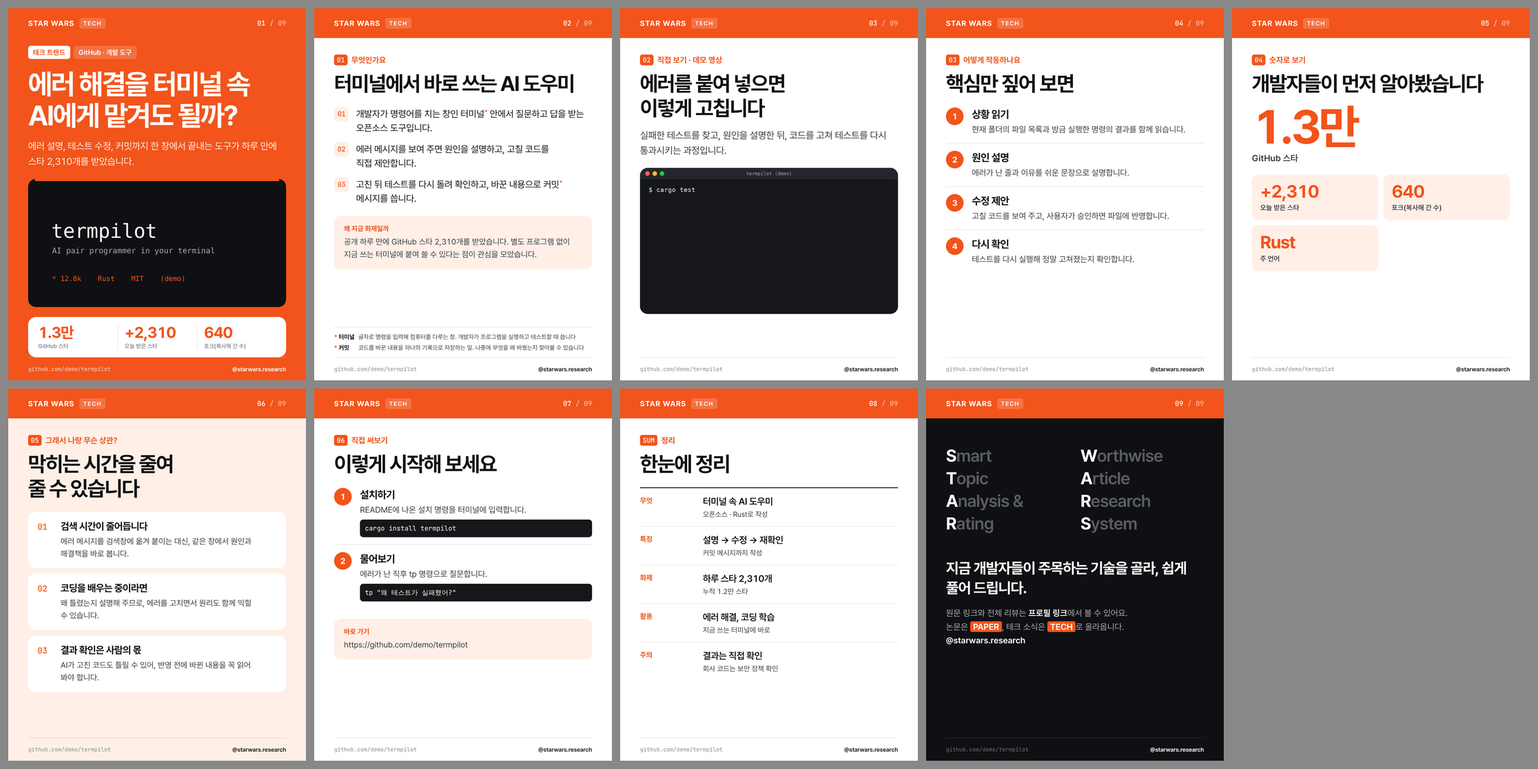
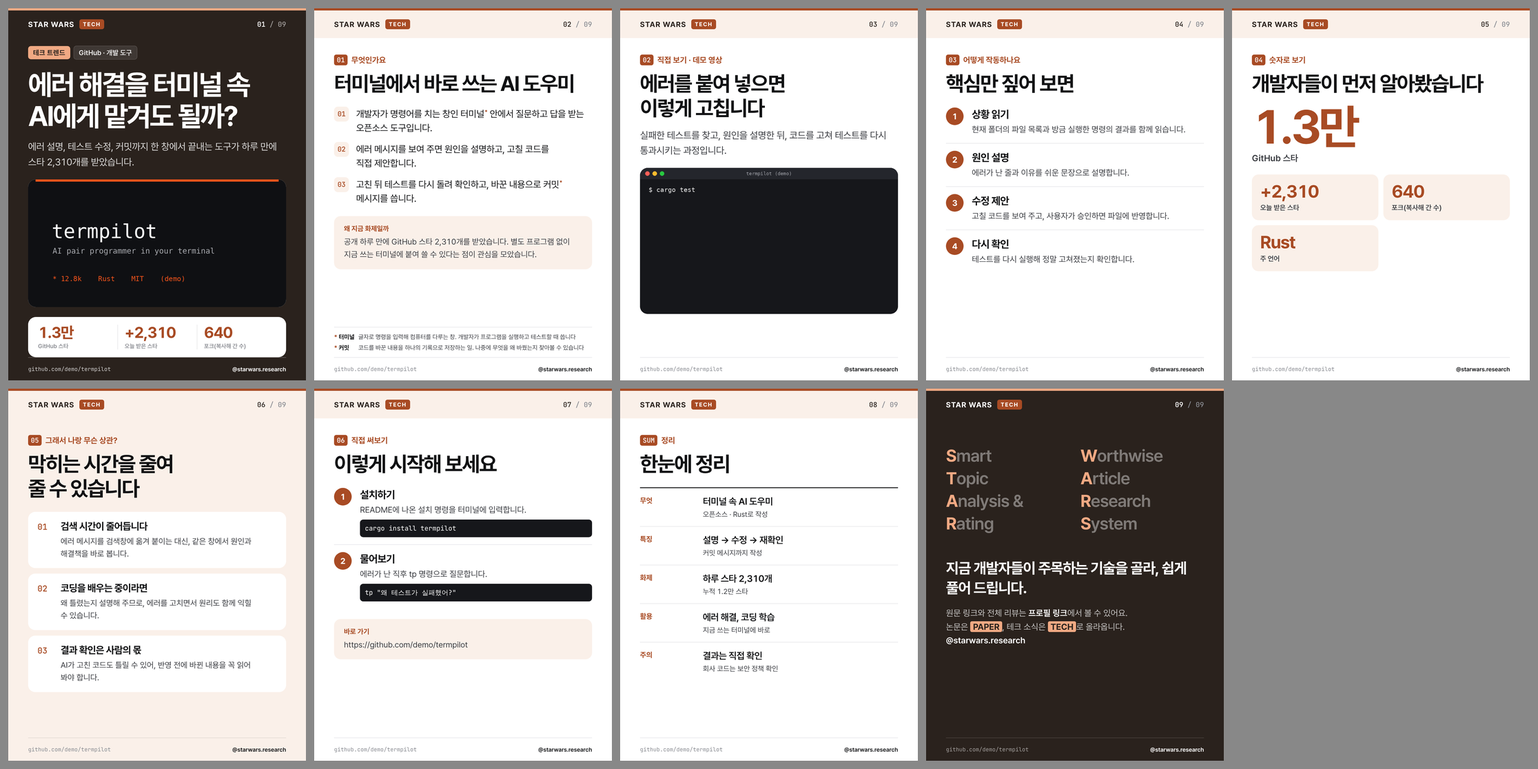
Calmer accessible palette (60-30-10, WCAG AA) and GitHub-style source labels
Claude-Session: https://claude.ai/code/session_012bj7GXVabYbePdzsSxXok8

diff --git a/paperagent/static/style.css b/paperagent/static/style.css
@@ -1,5 +1,7 @@
-/* STAR WARS dashboard. One typeface (Pretendard). Each category has its own colour block:
-   PAPER = blue, TECH = orange - the same colours as the card news. */
+/* STAR WARS dashboard. One typeface (Pretendard). Colours follow 60-30-10: neutral
+   surfaces and ink for most of the page, a light tint of the category colour for
+   panels, the category colour itself only for small accents. PAPER = indigo,
+   TECH = terracotta (same as the card news); every text pair meets WCAG AA. */
 @font-face { font-family: "Pretendard"; font-weight: 400; font-display: swap; src: url("fonts/Pretendard-Regular.woff2") format("woff2"); }
 @font-face { font-family: "Pretendard"; font-weight: 500; font-display: swap; src: url("fonts/Pretendard-Medium.woff2") format("woff2"); }
 @font-face { font-family: "Pretendard"; font-weight: 600; font-display: swap; src: url("fonts/Pretendard-SemiBold.woff2") format("woff2"); }
@@ -10,7 +12,7 @@
   --bg: #fafafa; --surface: #ffffff; --well: #f4f4f2;
   --ink: #171717; --body: #4d4d4d; --mute: #8f8f8f;
   --line: #ebebeb; --line-2: #dcdcdc;
-  --paper: #2346e0; --paper-soft: #ebf0ff; --tech: #f2541b; --tech-soft: #ffefe7;
+  --paper: #3a5a9f; --paper-soft: #eef2f9; --paper-deep: #1e2a47; --tech: #a84b24; --tech-soft: #faf0e9; --tech-deep: #2a221d;
   --accent: var(--paper); --accent-soft: var(--paper-soft);
   --ok: #1a7f4b; --warn: #a15c07; --danger: #c4321b;
   --shadow: 0 1px 1px rgba(0,0,0,.02), 0 2px 4px rgba(0,0,0,.04);
@@ -22,7 +24,7 @@
     --bg: #0b0b0b; --surface: #141414; --well: #1c1c1c;
     --ink: #ededed; --body: #b4b4b4; --mute: #7a7a7a;
     --line: #242424; --line-2: #303030;
-    --paper: #8aa2ff; --paper-soft: #18203f; --tech: #ff8a5c; --tech-soft: #3a1d12;
+    --paper: #8aa2e6; --paper-soft: #1a2032; --paper-deep: #c9d5f2; --tech: #e8936b; --tech-soft: #2b201b; --tech-deep: #f3d2c2;
     --accent: var(--paper); --accent-soft: var(--paper-soft);
     --ok: #4cc38a; --warn: #e2a14a; --danger: #ff7a5c;
     --shadow: none;
@@ -53,7 +55,7 @@ code { background: var(--well); padding: 1px 6px; border-radius: 4px; }
 .site-head .wrap { display: flex; align-items: center; gap: 28px; height: 60px; }
 .logo { display: inline-flex; align-items: center; gap: 9px; font-weight: 700; font-size: 16px; letter-spacing: 0.06em; white-space: nowrap; }
 .logo .mark { display: inline-grid; grid-template-columns: 9px 9px; gap: 2px; }
-.logo .mark i { height: 18px; border-radius: 3px; background: var(--paper); }
+.logo .mark i { height: 18px; border-radius: 3px; background: var(--paper-deep); }
 .logo .mark i + i { background: var(--tech); }
 .logo:hover { color: var(--ink); }
 .nav { display: flex; gap: 4px; overflow-x: auto; scrollbar-width: none; }
@@ -572,42 +574,46 @@ body.console-open { overflow: hidden; }
 /* ---------- colour blocks ---------- */
 .sdot { display: inline-block; width: 9px; height: 9px; border-radius: 3px; flex: none; background: var(--mute); vertical-align: 1px; }
 .sdot.s-paper { background: var(--paper); } .sdot.s-tech { background: var(--tech); }
-.sdot.s-github { background: #24292f; } .sdot.s-hn { background: #ff6600; } .sdot.s-geeknews { background: #2b6cb0; } .sdot.s-hf { background: #ffb000; }
+.sdot.s-github { background: #59636e; } .sdot.s-hn { background: #ff6600; } .sdot.s-geeknews { background: #3b6fb6; } .sdot.s-hf { background: #ffd21e; }
 .nav a.on .sdot { box-shadow: 0 0 0 2px var(--ink); }
-/* where a tech post came from */
-.sbadge { display: inline-block; font-size: 11.5px; font-weight: 700; line-height: 1.5; padding: 1px 8px; border-radius: 6px; color: #fff; background: #555; white-space: nowrap; }
-.sbadge.s-github { background: #24292f; } .sbadge.s-hn { background: #ff6600; } .sbadge.s-geeknews { background: #2b6cb0; }
-.sbadge.s-hf { background: #ffcc33; color: #3b2a00; }
-@media (prefers-color-scheme: dark) { .sbadge.s-github, .sdot.s-github { background: #57606a; } }
-
-/* page hero: a block in the category colour */
-.hero { margin-top: 32px; margin-bottom: 28px; padding: 32px 36px; border-radius: 22px; color: #fff; background: var(--paper);
-        display: grid; grid-template-columns: minmax(0, 1fr) auto; gap: 24px 40px; align-items: end; }
-.hero.tech { background: var(--tech); }
-.hero-tag { display: inline-block; font-size: 12.5px; font-weight: 700; letter-spacing: .14em; padding: 4px 10px; border-radius: 7px; background: #fff; color: var(--paper); }
-.hero.tech .hero-tag { color: var(--tech); }
-.hero h1 { margin-top: 14px; font-size: clamp(30px, 4vw, 42px); font-weight: 700; letter-spacing: -0.045em; line-height: 1.15; }
-.hero p { margin-top: 10px; max-width: 620px; font-size: 15.5px; color: rgba(255,255,255,.88); }
-.hero a.inline-link { color: #fff; text-decoration: underline; }
+/* where a tech post came from: a neutral pill with the source's own small mark,
+   styled like GitHub's labels (subtle canvas, hairline border, default text) */
+.sbadge { display: inline-flex; align-items: center; gap: 5px; height: 22px; padding: 0 8px 0 6px; border-radius: 999px; vertical-align: 1px;
+          font-size: 12px; font-weight: 600; line-height: 1; white-space: nowrap; color: #1f2328; background: #f6f8fa; border: 1px solid #d0d7de; }
+.sbadge svg, .sbadge .ico { width: 14px; height: 14px; flex: none; }
+.sbadge svg { fill: currentColor; }
+.sbadge .ico { display: inline-flex; align-items: center; justify-content: center; border-radius: 3px; font: 700 9.5px/1 "Pretendard", sans-serif; color: #fff; }
+.sbadge .ico.hn { background: #ff6600; }
+.sbadge .ico.geeknews { background: #3b6fb6; }
+.sbadge .ico.hf { background: #ffd21e; color: #3b2a00; border-radius: 50%; }
+@media (prefers-color-scheme: dark) { .sbadge { color: #e6edf3; background: #161b22; border-color: #30363d; } }
+/* page hero: a tinted panel with an accent line - the category colour stays an accent */
+.hero { margin-top: 32px; margin-bottom: 28px; padding: 30px 34px; border-radius: 18px; color: var(--ink); background: var(--paper-soft);
+        border-top: 5px solid var(--paper); display: grid; grid-template-columns: minmax(0, 1fr) auto; gap: 24px 40px; align-items: end; }
+.hero.tech { background: var(--tech-soft); border-top-color: var(--tech); }
+.hero-tag { display: inline-block; font-size: 12px; font-weight: 700; letter-spacing: .14em; padding: 4px 10px; border-radius: 6px; background: var(--paper); color: #fff; }
+.hero.tech .hero-tag { background: var(--tech); }
+.hero h1 { margin-top: 14px; font-size: clamp(28px, 3.6vw, 38px); font-weight: 700; letter-spacing: -0.04em; line-height: 1.18; color: var(--paper-deep); }
+.hero.tech h1 { color: var(--tech-deep); }
+.hero p { margin-top: 10px; max-width: 620px; font-size: 15.5px; color: var(--body); }
+.hero a.inline-link { color: var(--paper); text-decoration: underline; }
 .hero-stats { display: flex; align-items: flex-end; gap: 28px; flex-wrap: wrap; }
-.hero-stats > div b { display: block; font-size: 30px; font-weight: 700; letter-spacing: -0.04em; line-height: 1.1; }
-.hero-stats > div span { display: block; margin-top: 2px; font-size: 12.5px; color: rgba(255,255,255,.8); white-space: nowrap; }
+.hero-stats > div b { display: block; font-size: 28px; font-weight: 700; letter-spacing: -0.04em; line-height: 1.1; color: var(--paper); }
+.hero.tech .hero-stats > div b { color: var(--tech); }
+.hero-stats > div span { display: block; margin-top: 2px; font-size: 12.5px; color: var(--body); white-space: nowrap; }
 .hero-stats form { margin: 0; }
-.btn.invert { background: #fff; color: var(--paper); border-color: #fff; }
-.hero.tech .btn.invert { color: var(--tech); }
-.btn.invert:hover { color: var(--paper); opacity: .92; }
-@media (prefers-color-scheme: dark) {
-  .hero { background: #1a2a7a; } .hero.tech { background: #8a2c0a; }
-  .hero-tag, .btn.invert { color: #1a2a7a; } .hero.tech .hero-tag, .hero.tech .btn.invert { color: #8a2c0a; }
-}
+.btn.invert { background: var(--paper); color: #fff; border-color: var(--paper); }
+.hero.tech .btn.invert { background: var(--tech); border-color: var(--tech); }
+.btn.invert:hover { color: #fff; opacity: .9; }
+@media (prefers-color-scheme: dark) { .btn.invert, .hero-tag { color: #111; } }
 @media (max-width: 820px) {
-  .hero { grid-template-columns: minmax(0, 1fr); padding: 24px 20px; margin-top: 20px; border-radius: 18px; }
+  .hero { grid-template-columns: minmax(0, 1fr); padding: 22px 20px; margin-top: 20px; border-radius: 16px; }
   .hero-stats { gap: 18px 24px; }
-  .hero-stats > div b { font-size: 24px; }
+  .hero-stats > div b { font-size: 23px; }
 }
 /* other pages: a small colour block before the title */
-.page-head h1::before { content: ""; display: inline-block; width: 12px; height: 26px; margin-right: 12px; border-radius: 4px;
-                        background: linear-gradient(var(--paper) 50%, var(--tech) 50%); vertical-align: -3px; }
+.page-head h1::before { content: ""; display: inline-block; width: 6px; height: 24px; margin-right: 12px; border-radius: 3px;
+                        background: linear-gradient(var(--paper) 50%, var(--tech) 50%); vertical-align: -2px; }
 .list-title { flex: 1; padding-bottom: 10px; font-size: 16px; font-weight: 700; }
 .list-title span { margin-left: 4px; font-size: 13px; color: var(--mute); font-weight: 500; }
 .tabs a { display: inline-flex; align-items: center; gap: 6px; }

diff --git a/paperagent/templates/cards/cards.html b/paperagent/templates/cards/cards.html
@@ -10,12 +10,15 @@
 @font-face { font-family: "Mono"; font-weight: 400; src: url("{{ fonts }}/jetbrains-mono-latin-400-normal.woff2") format("woff2"); }
 @font-face { font-family: "Mono"; font-weight: 500; src: url("{{ fonts }}/jetbrains-mono-latin-500-normal.woff2") format("woff2"); }
 
-/* One frame for every post. The category (paper = blue, tech = orange) is the
-   colour of the band on top of each slide and of the whole cover. */
+/* One frame for every post. 60-30-10: white and ink carry the text, a light
+   tint of the category colour (paper = indigo, tech = terracotta) marks the
+   header and panels, and the category colour itself is kept for small accents.
+   Every text colour meets WCAG AA contrast on its background. */
 :root {
   --c: {{ theme.color }};
   --deep: {{ theme.deep }};
   --soft: {{ theme.soft }};
+  --tint: {{ theme.tint }};
   --ink: #111214;
   --body: #3b3d42;
   --mute: #8b8d93;
@@ -35,12 +38,14 @@ p, li, span, b { text-wrap: pretty; }
 .slide { --k: 1; width: 1080px; height: 1350px; position: relative; overflow: hidden; background: #fff; display: flex; flex-direction: column; }
 
 /* the colour block on top of every content slide */
-.band { flex: none; height: 108px; padding: 0 72px; background: var(--c); color: #fff; display: flex; align-items: center; justify-content: space-between; }
+/* the header: a light tint of the category colour with a thin accent line on top */
+.band { flex: none; height: 108px; padding: 0 72px; background: var(--soft); color: var(--ink); display: flex; align-items: center;
+        justify-content: space-between; border-top: 8px solid var(--c); }
 .brand { display: flex; align-items: center; gap: 18px; }
-.brand b { font-size: 27px; font-weight: 700; letter-spacing: .06em; }
-.brand span { font-size: 21px; font-weight: 600; letter-spacing: .14em; padding: 7px 14px; border-radius: 8px; background: rgba(255,255,255,.18); }
-.pg { font-family: "Mono", monospace; font-size: 25px; font-weight: 500; }
-.pg i { font-style: normal; opacity: .6; }
+.brand b { font-size: 27px; font-weight: 700; letter-spacing: .06em; color: var(--deep); }
+.brand span { font-size: 20px; font-weight: 700; letter-spacing: .14em; padding: 6px 13px; border-radius: 8px; background: var(--c); color: #fff; }
+.pg { font-family: "Mono", monospace; font-size: 25px; font-weight: 500; color: var(--deep); }
+.pg i { font-style: normal; color: var(--mute); }
 
 .main { position: relative; flex: 1; min-height: 0; display: flex; flex-direction: column; overflow: hidden; padding: calc(60px * var(--k)) 72px 0; }
 .bottom { flex: none; height: 84px; margin: 0 72px; border-top: 2px solid var(--line); display: flex; align-items: center; justify-content: space-between;
@@ -83,14 +88,17 @@ h2 { flex: none; margin-top: calc(22px * var(--k)); font-size: calc(76px * var(-
 .dots li::before { content: ""; position: absolute; left: .15em; top: calc(.5lh - 5px); width: 10px; height: 10px; border-radius: 3px; background: var(--c); }
 
 /* ---------- cover: the whole slide in the category colour ---------- */
-.cover { background: var(--c); color: #fff; }
-.cover .band { background: transparent; }
+.cover { background: var(--deep); color: #fff; }
+.cover .band { background: transparent; border-top-color: var(--tint); }
+.cover .brand b, .cover .pg { color: #fff; }
+.cover .pg i { color: rgba(255,255,255,.55); }
 .cover .main { padding-top: calc(28px * var(--k)); }
 .chips { flex: none; display: flex; flex-wrap: wrap; gap: 12px; align-items: center; }
-.chip { font-size: calc(25px * var(--k)); font-weight: 700; padding: 9px 18px; border-radius: 10px; background: #fff; color: var(--c); letter-spacing: .02em; }
-.chip.ghost { background: rgba(255,255,255,.16); color: #fff; font-weight: 600; letter-spacing: 0; }
+.chip { font-size: calc(25px * var(--k)); font-weight: 700; padding: 9px 18px; border-radius: 10px; background: var(--tint); color: var(--deep); letter-spacing: .02em; }
+.chip.ghost { background: rgba(255,255,255,.1); color: rgba(255,255,255,.9); font-weight: 600; letter-spacing: 0; border: 1.5px solid rgba(255,255,255,.22); }
+.cover h1 em { font-style: normal; color: var(--tint); }
 .cover h1 { flex: none; margin-top: calc(34px * var(--k)); font-size: calc(102px * var(--k)); line-height: 1.12; font-weight: 700; letter-spacing: -0.05em; }
-.cover .lead { color: rgba(255,255,255,.88); font-size: calc(35px * var(--k)); margin-top: calc(26px * var(--k)); }
+.cover .lead { color: rgba(255,255,255,.82); font-size: calc(35px * var(--k)); margin-top: calc(26px * var(--k)); }
 .cover .figure { border: 0; }
 .stat { flex: none; margin-top: auto; padding-top: calc(36px * var(--k)); }
 .stat-card { background: #fff; color: var(--ink); border-radius: 28px; padding: calc(28px * var(--k)) 36px; display: flex; align-items: center; gap: 44px; }
@@ -117,7 +125,7 @@ h2 { flex: none; margin-top: calc(22px * var(--k)); font-size: calc(76px * var(-
 .bar b { text-align: right; font-weight: 700; }
 .bar .track { height: 14px; background: var(--well); border-radius: 7px; overflow: hidden; }
 .bar .fill { height: 100%; background: var(--c); border-radius: 7px; }
-.bar.alt .fill { background: var(--ink); }
+.bar.alt .fill { background: var(--tint); }
 
 /* ---------- steps ---------- */
 .steps { flex: none; list-style: none; margin-top: calc(42px * var(--k)); display: flex; flex-direction: column; }
@@ -148,7 +156,7 @@ h2 { flex: none; margin-top: calc(22px * var(--k)); font-size: calc(76px * var(-
 .hbar .top span { color: var(--body); font-weight: 500; }
 .hbar .top b { font-weight: 700; }
 .hbar .track { height: calc(34px * var(--k)); border-radius: 10px; background: var(--well); overflow: hidden; }
-.hbar .fill { height: 100%; border-radius: 10px; background: #c9cbd1; }
+.hbar .fill { height: 100%; border-radius: 10px; background: #d5d7dc; }
 .hbar.on .top span, .hbar.on .top b { color: var(--c); font-weight: 700; }
 .hbar.on .fill { background: var(--c); }
 .rtable { flex: none; margin-top: calc(36px * var(--k)); }
@@ -192,9 +200,9 @@ h2 { flex: none; margin-top: calc(22px * var(--k)); font-size: calc(76px * var(-
 .pc li { font-size: calc(29px * var(--k)); line-height: 1.5; }
 .pc .good .dots li::before { background: var(--good); }
 .pc .bad .dots li::before { background: var(--bad); }
-.who { flex: none; margin-top: calc(22px * var(--k)); padding: calc(22px * var(--k)) 28px; border-radius: 20px; background: var(--ink); color: #fff;
+.who { flex: none; margin-top: calc(22px * var(--k)); padding: calc(22px * var(--k)) 28px; border-radius: 20px; background: var(--deep); color: #fff;
        display: grid; grid-template-columns: max-content minmax(0, 1fr); column-gap: 18px; font-size: calc(28px * var(--k)); line-height: 1.5; }
-.who b { color: #fff; background: var(--c); padding: 0 10px; border-radius: 6px; align-self: start; }
+.who b { color: var(--deep); background: var(--tint); padding: 0 10px; border-radius: 6px; align-self: start; }
 
 /* explained words: a raised * in the text, the meaning at the bottom of the slide */
 .star { font-size: .6em; vertical-align: .6em; line-height: 0; margin-left: 1px; color: var(--c); font-weight: 700; }
@@ -204,15 +212,18 @@ h2 { flex: none; margin-top: calc(22px * var(--k)); font-size: calc(76px * var(-
 .foot b::before { content: "* "; color: var(--c); }
 
 /* ---------- outro ---------- */
-.outro { background: #0f1013; color: #fff; }
+.outro { background: var(--deep); color: #fff; }
+.outro .band { background: transparent; border-top-color: var(--tint); }
+.outro .brand b, .outro .pg { color: #fff; }
+.outro .acro b { color: var(--tint); }
 .acro { margin: 96px 72px 0; display: grid; grid-template-columns: 1fr 1fr; gap: 4px 40px; }
-.acro div { font-size: 62px; font-weight: 600; letter-spacing: -0.03em; line-height: 1.26; color: #5a5c63; white-space: nowrap; }
+.acro div { font-size: 62px; font-weight: 600; letter-spacing: -0.03em; line-height: 1.26; color: rgba(255,255,255,.4); white-space: nowrap; }
 .acro b { color: #fff; font-weight: 700; }
 .outro .claim { margin: 88px 72px 0; font-size: 54px; line-height: 1.32; font-weight: 700; letter-spacing: -0.035em; }
-.outro .cta { margin: 30px 72px 0; font-size: 31px; line-height: 1.6; color: #a7a9ae; }
+.outro .cta { margin: 30px 72px 0; font-size: 31px; line-height: 1.6; color: rgba(255,255,255,.72); }
 .outro .cta b { color: #fff; font-weight: 600; }
-.outro .cta em { font-style: normal; color: #fff; background: var(--c); padding: 1px 10px; border-radius: 6px; font-weight: 600; }
-.outro .bottom { border-top-color: #26272c; color: #6d6f75; }
+.outro .cta em { font-style: normal; color: var(--deep); background: var(--tint); padding: 1px 10px; border-radius: 6px; font-weight: 700; }
+.outro .bottom { border-top-color: rgba(255,255,255,.14); color: rgba(255,255,255,.55); }
 .outro .bottom b { color: #fff; }
 
 /* while measuring, figures are out and the notes sit right under the text */

diff --git a/paperagent/templates/tech.html b/paperagent/templates/tech.html
@@ -1,5 +1,5 @@
 {% extends "base.html" %}
-{% from "_macros.html" import csrf with context %}
+{% from "_macros.html" import csrf, sbadge with context %}
 {% block title %}테크 소식 · {{ site_name }}{% endblock %}
 {% block content %}
 <section class="hero tech">
@@ -54,7 +54,7 @@
         {% for t in upcoming %}
         <div class="mini tech-mini">
           {% if is_admin %}<input type="checkbox" name="item_id" value="{{ t.id }}" aria-label="{{ t.title }} 선택">{% endif %}
-          <div><span class="sbadge s-{{ t.source }}">{{ tech_source_names.get(t.source) }}</span> <a href="{{ t.url }}" target="_blank" rel="noopener">{{ t.title }}</a>
+          <div>{{ sbadge(t.source, tech_source_names.get(t.source)) }} <a href="{{ t.url }}" target="_blank" rel="noopener">{{ t.title }}</a>
             <div class="why">관심도 {{ t.interest }} · {{ t.interest_reason }}</div></div>
         </div>
         {% endfor %}
@@ -65,7 +65,7 @@
     <section class="card">
       <div class="side-h"><h3>어디서 가져오나요</h3>{% if is_admin %}<a href="{{ url_for('web.settings') }}#tech">설정</a>{% endif %}</div>
       <ul class="src-list">
-        {% for key, s in sources.items() %}<li class="{{ 'off' if key not in settings.tech_sources }}"><span class="sbadge s-{{ key }}">{{ s.short }}</span>
+        {% for key, s in sources.items() %}<li class="{{ 'off' if key not in settings.tech_sources }}">{{ sbadge(key, s.short) }}
           <a href="{{ s.url }}" target="_blank" rel="noopener">{{ s.name }}</a>{% if key not in settings.tech_sources %} <span class="small muted">(꺼짐)</span>{% endif %}</li>{% endfor %}
       </ul>
     </section>
@@ -75,7 +75,7 @@
       <form method="post" action="{{ url_for('web.tech_run') }}">{{ csrf() }}
         <div class="kw-vlist collapsed" data-kw-list>
         {% for t in skipped %}<div class="mini tech-mini"><input type="checkbox" name="item_id" value="{{ t.id }}" aria-label="{{ t.title }} 선택">
-          <div><span class="sbadge s-{{ t.source }}">{{ tech_source_names.get(t.source) }}</span> <a href="{{ t.url }}" target="_blank" rel="noopener">{{ t.title }}</a>
+          <div>{{ sbadge(t.source, tech_source_names.get(t.source)) }} <a href="{{ t.url }}" target="_blank" rel="noopener">{{ t.title }}</a>
             <div class="why">관심도 {{ t.interest }} · {{ t.interest_reason }}</div></div></div>{% endfor %}
         </div>
         <button type="button" class="kw-more" data-kw-toggle hidden>전체 보기</button>

diff --git a/paperagent/templates/settings.html b/paperagent/templates/settings.html
@@ -1,5 +1,5 @@
 {% extends "base.html" %}
-{% from "_macros.html" import csrf with context %}
+{% from "_macros.html" import csrf, sbadge with context %}
 {% block title %}설정 · {{ site_name }}{% endblock %}
 {% block content %}
 <section class="page-head"><div>
@@ -35,7 +35,7 @@
     <p class="desc">정기 실행 때 논문 다음에, 아래 출처에서 화제인 프로젝트와 소식을 모아 가장 흥미로운 것을 TECH 카드뉴스로 만듭니다.</p>
     <form method="post" action="{{ url_for('web.save_tech_settings') }}">{{ csrf() }}
       <div class="check-grid">{% for key, s in tech_source_list.items() %}
-        <label class="check"><input type="checkbox" name="src_{{ key }}" value="1" {{ 'checked' if key in settings.tech_sources }}><span class="sbadge s-{{ key }}">{{ s.short }}</span>{{ s.name }}</label>{% endfor %}</div>
+        <label class="check"><input type="checkbox" name="src_{{ key }}" value="1" {{ 'checked' if key in settings.tech_sources }}>{{ sbadge(key, s.short) }}{{ s.name }}</label>{% endfor %}</div>
       <div class="form-grid">
         <label>실행마다 만드는 수<input type="number" name="tech_per_run" min="0" max="10" value="{{ settings.tech_per_run }}"></label>
         <label>최소 관심도 (0-10)<input type="number" step="0.5" name="tech_min_interest" min="0" max="10" value="{{ settings.tech_min_interest }}"></label>

diff --git a/paperagent/templates/_macros.html b/paperagent/templates/_macros.html
@@ -35,3 +35,5 @@
   </div>
 </section>
 {% endmacro %}
+{# a tech post's source: neutral GitHub-style label with the source's own small mark #}
+{% macro sbadge(key, name) %}<span class="sbadge s-{{ key }}" title="출처: {{ name }}">{% if key == 'github' %}<svg viewBox="0 0 16 16" aria-hidden="true"><path d="M8 0c4.42 0 8 3.58 8 8a8.013 8.013 0 0 1-5.45 7.59c-.4.08-.55-.17-.55-.38 0-.27.01-1.13.01-2.2 0-.75-.25-1.23-.54-1.48 1.78-.2 3.65-.88 3.65-3.95 0-.88-.31-1.59-.82-2.15.08-.2.36-1.02-.08-2.12 0 0-.67-.22-2.2.82-.64-.18-1.32-.27-2-.27-.68 0-1.36.09-2 .27-1.53-1.03-2.2-.82-2.2-.82-.44 1.1-.16 1.92-.08 2.12-.51.56-.82 1.28-.82 2.15 0 3.06 1.86 3.75 3.64 3.95-.23.2-.44.55-.51 1.07-.46.21-1.61.55-2.33-.66-.15-.24-.6-.83-1.23-.82-.67.01-.27.38.01.53.34.19.73.9.82 1.13.16.45.68 1.31 2.69.94 0 .67.01 1.3.01 1.49 0 .21-.15.45-.55.38A7.995 7.995 0 0 1 0 8c0-4.42 3.58-8 8-8Z"/></svg>{% elif key == 'hn' %}<i class="ico hn" aria-hidden="true">Y</i>{% elif key == 'geeknews' %}<i class="ico geeknews" aria-hidden="true">G</i>{% elif key == 'hf' %}<i class="ico hf" aria-hidden="true">🤗</i>{% endif %}{{ name }}</span>{% endmacro %}

diff --git a/paperagent/templates/index.html b/paperagent/templates/index.html
@@ -1,5 +1,5 @@
 {% extends "base.html" %}
-{% from "_macros.html" import csrf, source_select with context %}
+{% from "_macros.html" import csrf, source_select, sbadge with context %}
 {% block content %}
 <section class="hero paper">
   <div class="hero-main">
@@ -71,7 +71,7 @@
     <section class="card side-tech">
       <div class="side-h"><h3><span class="sdot s-tech"></span>새 테크 소식</h3><a href="{{ url_for('web.tech_index') }}">더 보기</a></div>
       {% for t in tech_latest %}
-        <a class="mini" href="{{ url_for('web.tech_detail', item_id=t.id) }}"><span class="n"><span class="sbadge s-{{ t.source }}">{{ tech_source_names.get(t.source) }}</span></span><span>{{ (t.review or {}).title_ko or t.title }}</span></a>
+        <a class="mini" href="{{ url_for('web.tech_detail', item_id=t.id) }}"><span class="n">{{ sbadge(t.source, tech_source_names.get(t.source)) }}</span><span>{{ (t.review or {}).title_ko or t.title }}</span></a>
       {% endfor %}
     </section>
     {% endif %}

diff --git a/paperagent/templates/tech_item.html b/paperagent/templates/tech_item.html
@@ -1,5 +1,5 @@
 {% extends "base.html" %}
-{% from "_macros.html" import csrf, cards_panel with context %}
+{% from "_macros.html" import csrf, cards_panel, sbadge with context %}
 {% block title %}{{ r.title_ko or t.title }} · {{ site_name }}{% endblock %}
 {% block meta %}
 <meta property="og:title" content="{{ r.title_ko or t.title }}">
@@ -11,7 +11,7 @@
 <a class="back" href="{{ url_for('web.tech_index') }}">← 테크 소식</a>
 <header class="dhead tech">
   <div class="pmeta meta"><div>
-    <span class="mi"><span class="sbadge s-{{ t.source }}">{{ source.short or t.source }}</span></span>
+    <span class="mi">{{ sbadge(t.source, source.short or t.source) }}</span>
     {% if r.category %}<span class="mi cat">{{ r.category }}</span>{% endif %}
     {% if t.reviewed_at %}<span class="mi">{{ t.reviewed_at | kst('%Y.%m.%d') }}</span>{% endif %}
   </div></div>

diff --git a/paperagent/templates/_tech_card.html b/paperagent/templates/_tech_card.html
@@ -1,3 +1,4 @@
+{% from "_macros.html" import sbadge with context %}
 {% set r = t.review or {} %}
 {% set tiles = tech_tiles(t) %}
 <article class="prow card tech" id="t-{{ t.id }}">
@@ -7,7 +8,7 @@
   </div>
   <div>
     <div class="pmeta meta"><div>
-      <span class="mi"><span class="sbadge s-{{ t.source }}">{{ tech_source_names.get(t.source, t.source) }}</span></span>
+      <span class="mi">{{ sbadge(t.source, tech_source_names.get(t.source, t.source)) }}</span>
       {% if r.category %}<span class="mi cat">{{ r.category }}</span>{% endif %}
       {% if t.reviewed_at %}<span class="mi" title="카드뉴스를 만든 시각">{{ t.reviewed_at | kst('%m.%d %H:%M') }}</span>{% endif %}
     </div></div>

diff --git a/paperagent/cardnews.py b/paperagent/cardnews.py
@@ -31,11 +31,15 @@ log = logging.getLogger(__name__)
 PKG_DIR = Path(__file__).resolve().parent
 FONT_DIR = PKG_DIR / "static" / "fonts"
 
+# Colours follow a 60-30-10 split: neutral white/ink for most of a slide, a
+# light tint of the category colour for panels, and the category colour itself
+# only for small accents (labels, key numbers, bars). Every text/background
+# pair meets WCAG AA (4.5:1); the accents are muted, not neon.
 THEMES = {
-    "paper": {"key": "paper", "color": "#2346E0", "deep": "#1631B0", "soft": "#EBF0FF", "label": "PAPER",
+    "paper": {"key": "paper", "color": "#3A5A9F", "deep": "#1E2A47", "soft": "#EEF2F9", "tint": "#AEBFE8", "label": "PAPER",
               "name": "논문 리뷰", "kicker": "오늘의 논문",
               "claim": "읽을 가치가 있는 논문만 골라 읽고, 평가합니다."},
-    "tech": {"key": "tech", "color": "#F2541B", "deep": "#C43B0B", "soft": "#FFEFE7", "label": "TECH",
+    "tech": {"key": "tech", "color": "#A84B24", "deep": "#2A221D", "soft": "#FAF0E9", "tint": "#F0A983", "label": "TECH",
              "name": "테크 트렌드", "kicker": "오늘의 테크",
              "claim": "지금 개발자들이 주목하는 기술을 골라, 쉽게 풀어 드립니다."},
 }

diff --git a/README.md b/README.md
@@ -18,11 +18,11 @@
 [Heroku 업데이트](#5-heroku에-변경-사항-올리기) ·
 [처음 설정 (API 키·Heroku 첫 배포)](docs/SETUP.md)
 
-<img src="docs/preview-cards.png" width="640" alt="논문 카드뉴스 예시 (PAPER, 파란색)">
+<img src="docs/preview-cards.png" width="640" alt="논문 카드뉴스 예시 (PAPER, 남색)">
 
-<img src="docs/preview-tech-cards.png" width="640" alt="테크 카드뉴스 예시 (TECH, 주황색)">
+<img src="docs/preview-tech-cards.png" width="640" alt="테크 카드뉴스 예시 (TECH, 테라코타)">
 
-<sub>위 카드뉴스와 아래 화면은 데모용 가상 논문·가상 프로젝트로 만든 예시입니다. 파란색은 논문(PAPER), 주황색은 테크 소식(TECH)입니다.</sub>
+<sub>위 카드뉴스와 아래 화면은 데모용 가상 논문·가상 프로젝트로 만든 예시입니다. 남색은 논문(PAPER), 테라코타색은 테크 소식(TECH)입니다.</sub>
 
 </div>
 
@@ -39,7 +39,7 @@
 | 3 | **정독 → 평가 → 작성** | PDF 전문을 읽고 **방법론 신뢰도**와 **참신성**으로 채점한 뒤, 한국어 리뷰를 씁니다 |
 | 4 | **카드뉴스** | 인스타용 1080×1350 카드 10장: 질문형 표지 → 문제 → 핵심 아이디어(**움직이는 영상 카드**) → 작동 방식 → 실험 → 결과(큰 숫자와 막대) → **그래서 나랑 무슨 상관?** → 평가 → 정리 → 프로필 안내, 그리고 캡션 |
 | 5 | **트렌드** | 오늘 화제인 논문, 인용이 빠르게 느는 논문을 모읍니다. 공개 데이터만 쓰므로 **Claude API 없이도** 갱신됩니다 |
-| 6 | **테크 소식** | GitHub Trending, Hacker News, GeekNews, Hugging Face에서 화제인 프로젝트와 소식을 모아 흥미도를 매기고, 가장 좋은 것(기본 2개)을 쉬운 한국어 설명과 **TECH 카드뉴스**(주황색, 데모 영상 카드 포함)로 만듭니다 |
+| 6 | **테크 소식** | GitHub Trending, Hacker News, GeekNews, Hugging Face에서 화제인 프로젝트와 소식을 모아 흥미도를 매기고, 가장 좋은 것(기본 2개)을 쉬운 한국어 설명과 **TECH 카드뉴스**(테라코타색, 데모 영상 카드 포함)로 만듭니다 |
 
 결과는 누구나 볼 수 있는 대시보드에 올라가고, 출처(저널·학회·arXiv 분야)별로 나눠 볼 수 있습니다. **설정** 페이지와 키워드·저널 관리, 실행은 관리자만 쓸 수 있습니다.
 
@@ -173,8 +173,8 @@ python -m paperagent serve --host 127.0.0.1 --port 8000 --no-scheduler
 
 | 주소 | 확인할 것 |
 |---|---|
-| http://127.0.0.1:8000 | **오늘의 논문**: 파란 블록 아래 데모 논문 한 편이 점수, 요약, 썸네일과 함께 보이는지. 오른쪽에 **새 테크 소식**이 보입니다. 실행 중에는 오른쪽 위 **논문 읽는 중**을 누르면 진행 상황과 로그가 나옵니다 |
-| http://127.0.0.1:8000/tech | **테크 소식**: 주황 블록 아래 데모 프로젝트, 출처별 탭(GitHub · Hacker News · GeekNews · Hugging Face), 다음에 만들 소식 |
+| http://127.0.0.1:8000 | **오늘의 논문**: 남색 블록 아래 데모 논문 한 편이 점수, 요약, 썸네일과 함께 보이는지. 오른쪽에 **새 테크 소식**이 보입니다. 실행 중에는 오른쪽 위 **논문 읽는 중**을 누르면 진행 상황과 로그가 나옵니다 |
+| http://127.0.0.1:8000/tech | **테크 소식**: 테라코타 블록 아래 데모 프로젝트, 출처별 탭(GitHub · Hacker News · GeekNews · Hugging Face), 다음에 만들 소식 |
 | http://127.0.0.1:8000/tech/1 | **테크 소식 상세**: 쉬운 설명, 그래서 나랑 무슨 상관?, 직접 써보기, 숫자로 보기, 카드뉴스(3번 카드는 영상으로 재생) |
 | http://127.0.0.1:8000/paper/1 | **논문 리뷰**: 평점 막대, 단계별 요약, 주요 그림, 카드뉴스 넘겨보기, 캡션 복사 |
 | http://127.0.0.1:8000/files/cards/1.zip | **카드뉴스 ZIP**: 카드 10장(3번은 `card_03.mp4` 영상)과 `caption.txt`가 들어 있는지. 번호 순서대로 인스타에 올리면 됩니다 |
